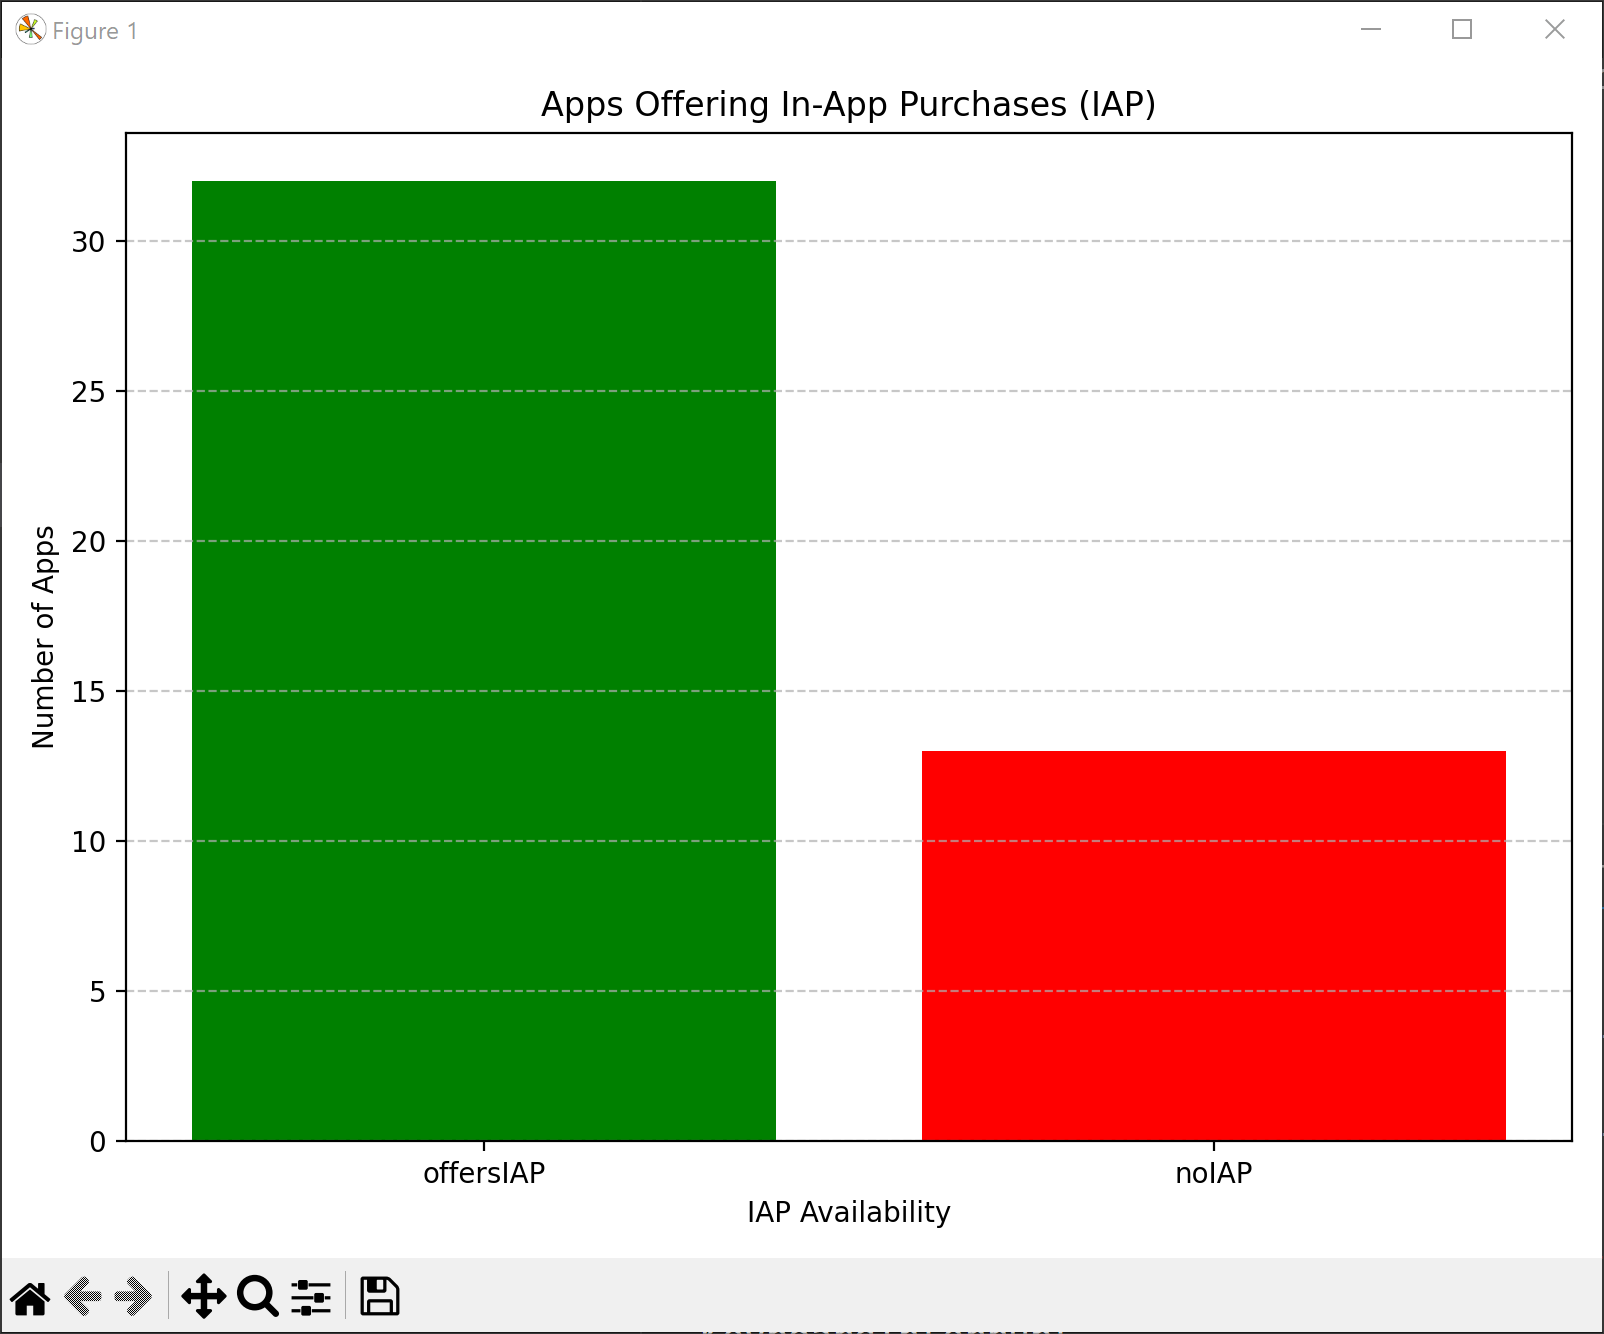
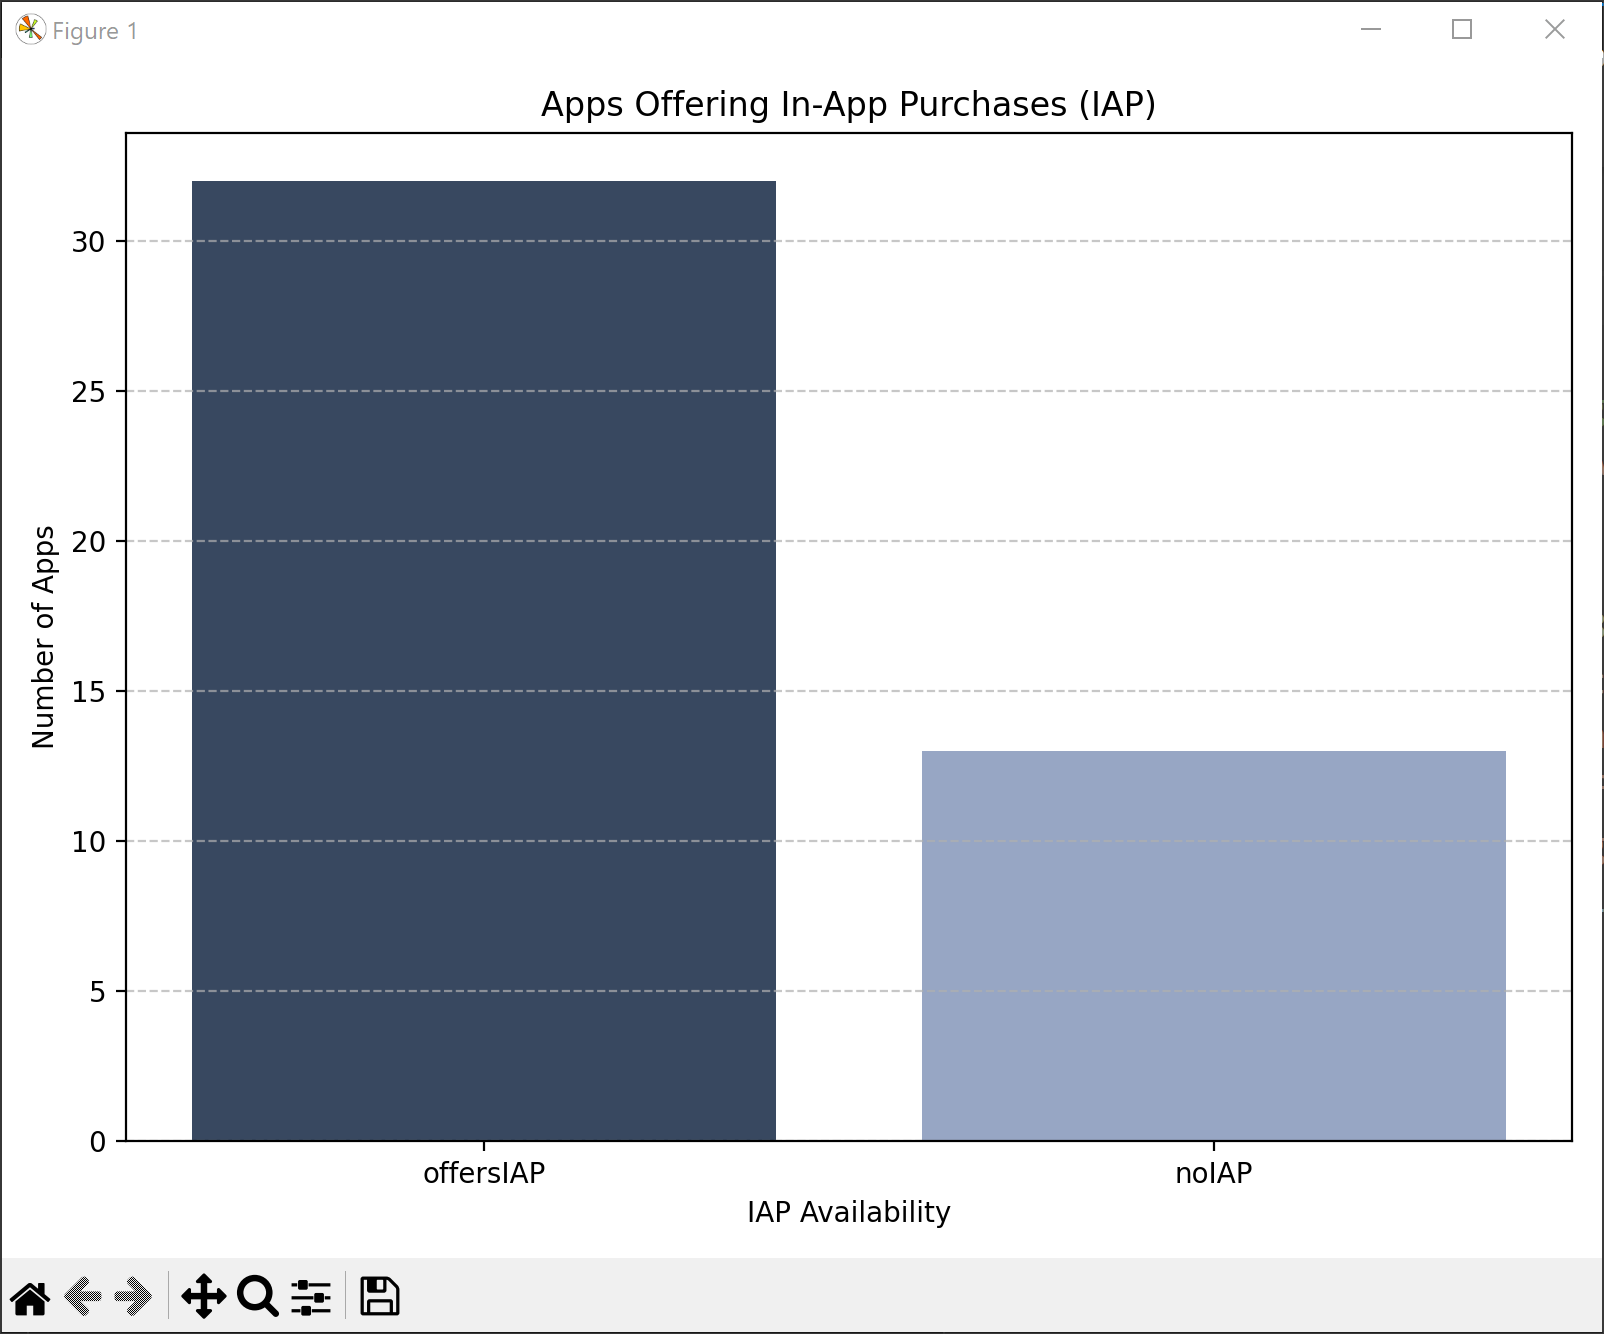
code fix and color changes

diff --git a/common_prices.py b/common_prices.py
@@ -1,4 +1,4 @@
-#free vs paid apps
+# prices of paid apps
 
 import json
 import pandas as pd
@@ -7,13 +7,10 @@ from google_play_scraper import search
 
 # Sample data for demonstration purposes
 queries = [
-    "best Pikachu game",
-    "best Pokemon game",
-    "best adventure game",
-    "best RPG game",
-    "best strategy game",
-    "free apps",
-    "paid apps"
+    "top paid games",
+    "premium games",
+    "premium video games",
+    "paid apps",
 ]
 
 all_results = []
@@ -31,17 +28,18 @@ for query in queries:
 # Create a DataFrame
 df = pd.DataFrame(all_results)
 
-# Count free and paid apps
-free_apps = df[df["free"]].shape[0]
-paid_apps = df[~df["free"]].shape[0]
+# Filter out free apps
+paid_apps = df[df['price'] > 0]
+
+# Group by price and count the number of apps in each price
+price_counts = paid_apps['price'].value_counts().sort_index()
 
 # Prepare the output JSON
 output_data = {
-    "free_apps": free_apps,
-    "paid_apps": paid_apps
+    "price_counts": price_counts.to_dict()  # Convert Series to dictionary for JSON serialization
 }
 
-output_file = "free_vs_paid.json"
+output_file = "common_prices.json"
 
 # Writing results to JSON file with exception handling
 try:
@@ -62,23 +60,16 @@ except Exception as e:
     print(f"Error reading from {output_file}: {e}")
     app_data = {}
 
-# Directly accessing the values
-free_apps = app_data['free_apps']
-paid_apps = app_data['paid_apps']
-
-# Visualization using matplotlib
-categories = ["Free Apps", "Paid Apps"]
-counts = [free_apps, paid_apps]
-
-plt.figure(figsize=(8, 6))
-plt.bar(categories, counts, color=["teal", "orange"])
-plt.title("Free vs Paid Apps")
-plt.ylabel("Number of Apps")
-plt.xlabel("App Category")
-plt.grid(axis="y", linestyle="--", alpha=0.7)
-
-# Show the bar chart
-plt.tight_layout()
-plt.show()
-
-
+# Visualization for price using a bar plot
+if "price_counts" in app_data:
+    price_counts = pd.Series(app_data["price_counts"])
+    plt.figure(figsize=(10, 6))
+    plt.bar(price_counts.index.astype(str), price_counts.values)
+    plt.title("Common prices of Paid Apps")
+    plt.xlabel("Price (USD)")
+    plt.ylabel("Number of Apps")
+    plt.xticks(rotation=45, ha="right")  # Rotate price labels for better readability
+    plt.grid(axis="y", linestyle="--", alpha=0.7)
+    plt.show()
+else:
+    print("No data found to plot.")

diff --git a/avg_reviews.py b/avg_reviews.py
@@ -1,5 +1,3 @@
-#avg reviews per realinstalls of free vs paid apps
-
 import json
 import pandas as pd
 import matplotlib.pyplot as plt
@@ -74,9 +72,34 @@ paid_apps = df[df['free'] == False]
 avg_reviews_free = free_apps['avg_reviews_per_install'].mean()
 avg_reviews_paid = paid_apps['avg_reviews_per_install'].mean()
 
+# Prepare output data
+output_data = {
+    'Free Apps': avg_reviews_free,
+    'Paid Apps': avg_reviews_paid
+}
+
+output_file = "average_reviews_per_install_comparison.json"
+
+# Write results to JSON file
+try:
+    with open(output_file, 'w') as file:
+        json.dump(output_data, file, indent=4)
+    print(f"Results written to {output_file}")
+except Exception as e:
+    print(f"Error writing to {output_file}: {e}")
+
+# Read values from JSON file
+try:
+    with open(output_file, 'r') as file:
+        app_data = json.load(file)
+    print(f"Data successfully read from {output_file}")
+except Exception as e:
+    print(f"Error reading from {output_file}: {e}")
+    app_data = {}
+
 # Prepare data for visualization
-categories = ['Free Apps', 'Paid Apps']
-avg_reviews = [avg_reviews_free, avg_reviews_paid]
+categories = list(app_data.keys())
+avg_reviews = list(app_data.values())
 
 # Plot the comparison
 plt.figure(figsize=(8, 5))
@@ -88,17 +111,3 @@ plt.tight_layout()
 
 # Show the graph
 plt.show()
-
-# Prepare output data
-output_data = {
-    'Free Apps': avg_reviews_free,
-    'Paid Apps': avg_reviews_paid
-}
-
-# Write the result to a JSON file
-output_file = "average_reviews_per_install_comparison.json"
-with open(output_file, "w") as file:
-    json.dump(output_data, file, indent=4)
-
-# End of scraping and writing to json file
-print(f"Results written to {output_file}")

diff --git a/IAP.py b/IAP.py
@@ -77,17 +77,26 @@ output_data = {
     "noIAP": noIAP
 }
 
-# Write the result to a file
 output_file = "IAP_vs_NoIAP.json"
-with open(output_file, "w") as file:
+
+# Writing results to JSON file with exception handling
+try:
+    file = open(output_file, 'w')
     json.dump(output_data, file, indent=4)
+    file.close()  # Explicitly closing the file after operation
+    print(f"Results written to {output_file}")
+except Exception as e:
+    print(f"Error writing to {output_file}: {e}")    
 
-# End of scraping and writing to json file
-print(f"Results written to {output_file}")
-
-# Reading values from json file
-with open('IAP_vs_NoIAP.json', 'r') as json_file:
-    app_data = json.load(json_file)
+# Reading values from JSON file with exception handling
+try:
+    file = open(output_file, 'r')
+    app_data = json.load(file)
+    file.close()  # Explicitly closing the file after operation
+    print(f"Data successfully read from {output_file}")
+except Exception as e:
+    print(f"Error reading from {output_file}: {e}")
+    app_data = {}    
 
 # Directly accessing the values
 offersIAP = app_data['offersIAP']
@@ -98,7 +107,7 @@ categories = ["offersIAP", "noIAP"]
 counts = [offersIAP, noIAP]
 
 plt.figure(figsize=(8, 6))
-plt.bar(categories, counts, color=["green", "red"])
+plt.bar(categories, counts, color=["#384860", "#97a6c4"]) # shades of gray medium blues
 plt.title("Apps Offering In-App Purchases (IAP)")
 plt.ylabel("Number of Apps")
 plt.xlabel("IAP Availability")

diff --git a/genres.py b/genres.py
@@ -41,17 +41,26 @@ output_data = {
     "genre_counts": genre_counts.to_dict()
 }
 
-# Write the result to a file
 output_file = "genre_counts.json"
-with open(output_file, "w") as file:
+
+# Writing results to JSON file with exception handling
+try:
+    file = open(output_file, 'w')
     json.dump(output_data, file, indent=4)
+    file.close()  # Explicitly closing the file after operation
+    print(f"Results written to {output_file}")
+except Exception as e:
+    print(f"Error writing to {output_file}: {e}")
 
-# End of scraping and writing to json file
-print(f"Results written to {output_file}")
-
-# Reading values from json file
-with open('genre_counts.json', 'r') as json_file:
-    genre_data = json.load(json_file)
+# Reading values from JSON file with exception handling
+try:
+    file = open(output_file, 'r')
+    genre_data = json.load(file)
+    file.close()  # Explicitly closing the file after operation
+    print(f"Data successfully read from {output_file}")
+except Exception as e:
+    print(f"Error reading from {output_file}: {e}")
+    genre_data = {}
 
 # Directly accessing the genre counts
 genre_counts = genre_data['genre_counts']

diff --git a/permissions.py b/permissions.py
@@ -50,17 +50,26 @@ output_data = {
     "mean_permissions": mean_permissions
 }
 
-# Write to JSON file
 output_file = "permissions.json"
-with open(output_file, "w") as file:
+
+# Writing results to JSON file with exception handling
+try:
+    file = open(output_file, 'w')
     json.dump(output_data, file, indent=4)
+    file.close()  # Explicitly closing the file after operation
+    print(f"Results written to {output_file}")
+except Exception as e:
+    print(f"Error writing to {output_file}: {e}")
 
-# End of scraping and writing to JSON file
-print(f"Results written to {output_file}")
-
-# Reading values from the JSON file
-with open('permissions.json', 'r') as json_file:
-    app_data = json.load(json_file)
+# Reading values from JSON file with exception handling
+try:
+    file = open(output_file, 'r')
+    app_data = json.load(file)
+    file.close()  # Explicitly closing the file after operation
+    print(f"Data successfully read from {output_file}")
+except Exception as e:
+    print(f"Error reading from {output_file}: {e}")
+    app_data = {}
 
 # Extract mean_permissions directly
 mean_permissions = app_data["mean_permissions"]

diff --git a/README.md b/README.md
@@ -1,6 +1,6 @@
 ![](images/free_vs_paid.png)
 ![](images/IAP.png)
 ![](images/genres.png)
-![](images/price_ranges.png)
+![](images/common_prices.png)
 ![](images/avg_reviews.png)
-![](images/pe5.png)
+![](images/permissions.png)
